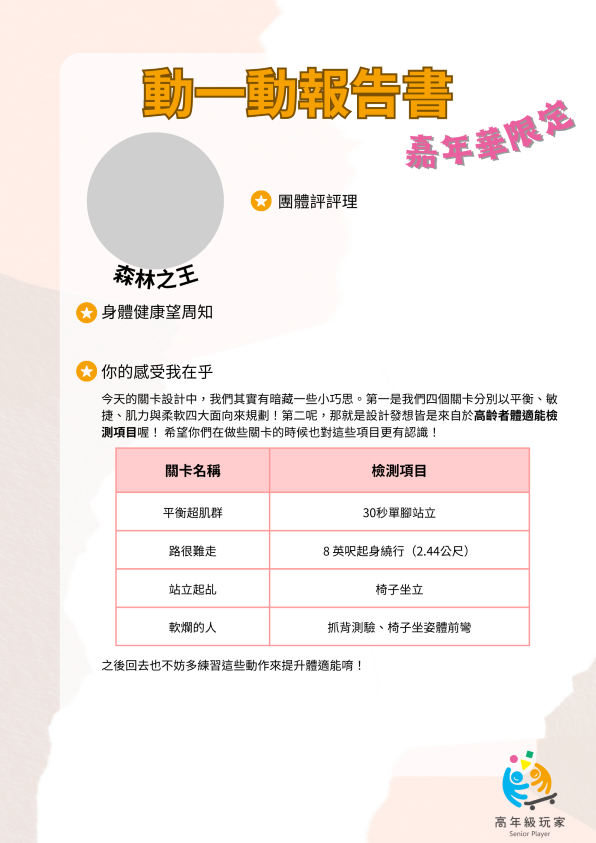
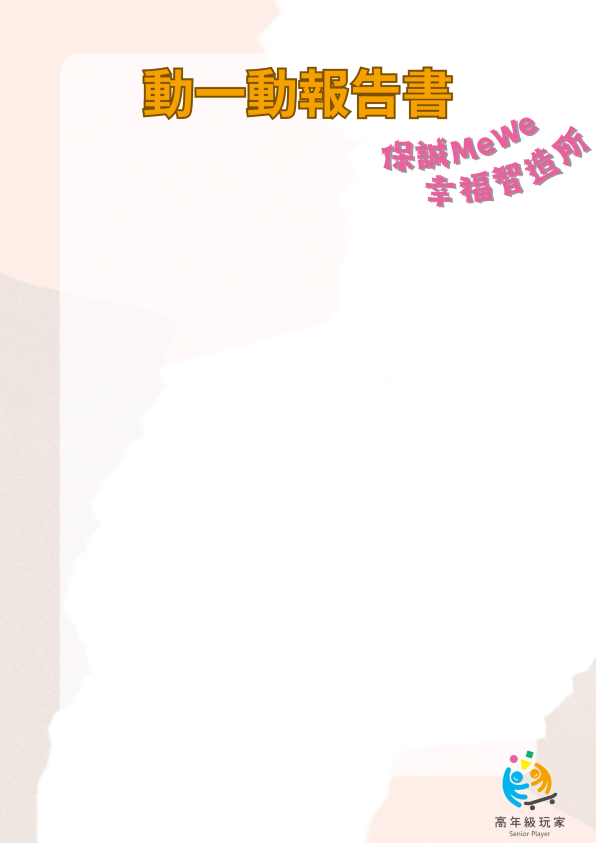
update background

diff --git a/main.py b/main.py
@@ -91,8 +91,8 @@ def getRank(group, game = FINAL_COL):
 
 def firstPageSetup(canvas, doc):
     canvas.saveState()
-    canvas.drawImage('./images/report_template1.png', 0, 0)
-    canvas.drawImage(getRankIconPath(doc.group), 100, h-280, width=150, height=150, mask='auto')
+    canvas.drawImage('./images/report_template.png', 0, 0)
+    canvas.drawImage(getRankIconPath(doc.group), 100, h-300, width=150, height=150, mask='auto')
     canvas.restoreState()
 
 def getRankIconPath(group):
@@ -210,8 +210,8 @@ title3 = '<img src="./images/icon.png" valign="middle" width="20" height="20"/> 
 text3 = '今天的關卡設計中，我們其實有暗藏一些小巧思。第一是我們四個關卡分別以平衡、敏捷、肌力與柔軟四大面向來規劃！<br/>第二呢，那就是設計發想皆是來自於高齡者體適能檢測項目喔！希望你們在做些關卡的時候也對這些項目更有認識！'
 
 table_data = [['關卡名稱', '檢測項目'],
-              ['平衡超雞群', '30秒單腳站立'],
-              ['路很難走', '8 英呎起身繞行（2.44公尺）'],
+              ['平衡超雞群', '30 秒單腳站立'],
+              ['路很難走', '8 英呎起身繞行（2.44 公尺）'],
               ['站立起乩', '椅子坐立'],
               ['軟爛的人', '抓背測驗、椅子坐姿體前彎']]
 
@@ -259,7 +259,7 @@ if __name__ == '__main__':
 
         doc.group = group
 
-        s = Spacer(0, 100)
+        s = Spacer(0, 120)
         flowable.append(s)
 
         p = Paragraph(title1, title1StyleCustom)
@@ -268,7 +268,7 @@ if __name__ == '__main__':
         p = Paragraph(getText1(group), text1StyleCustom)
         flowable.append(p)
 
-        s = Spacer(0, 30)
+        s = Spacer(0, 10)
         flowable.append(s)
 
         p = Paragraph(title2, title2StyleCustom)
